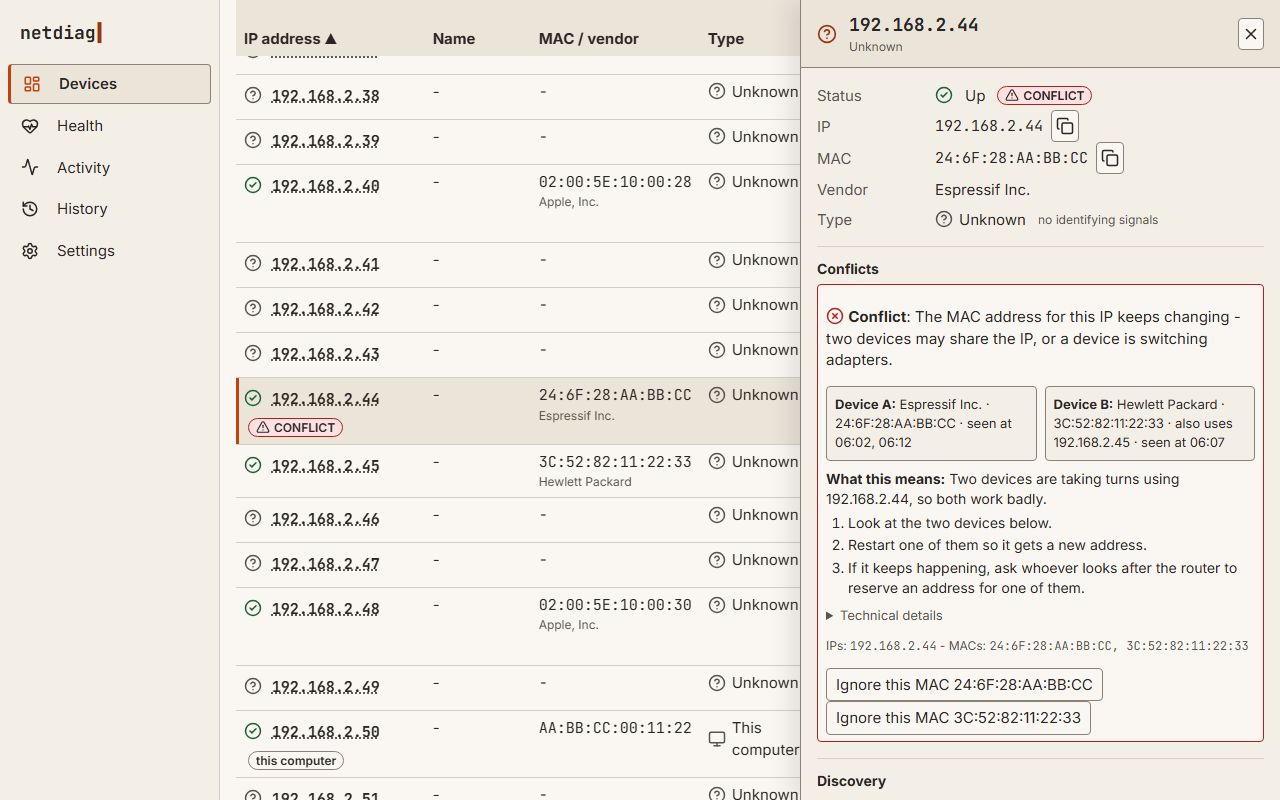
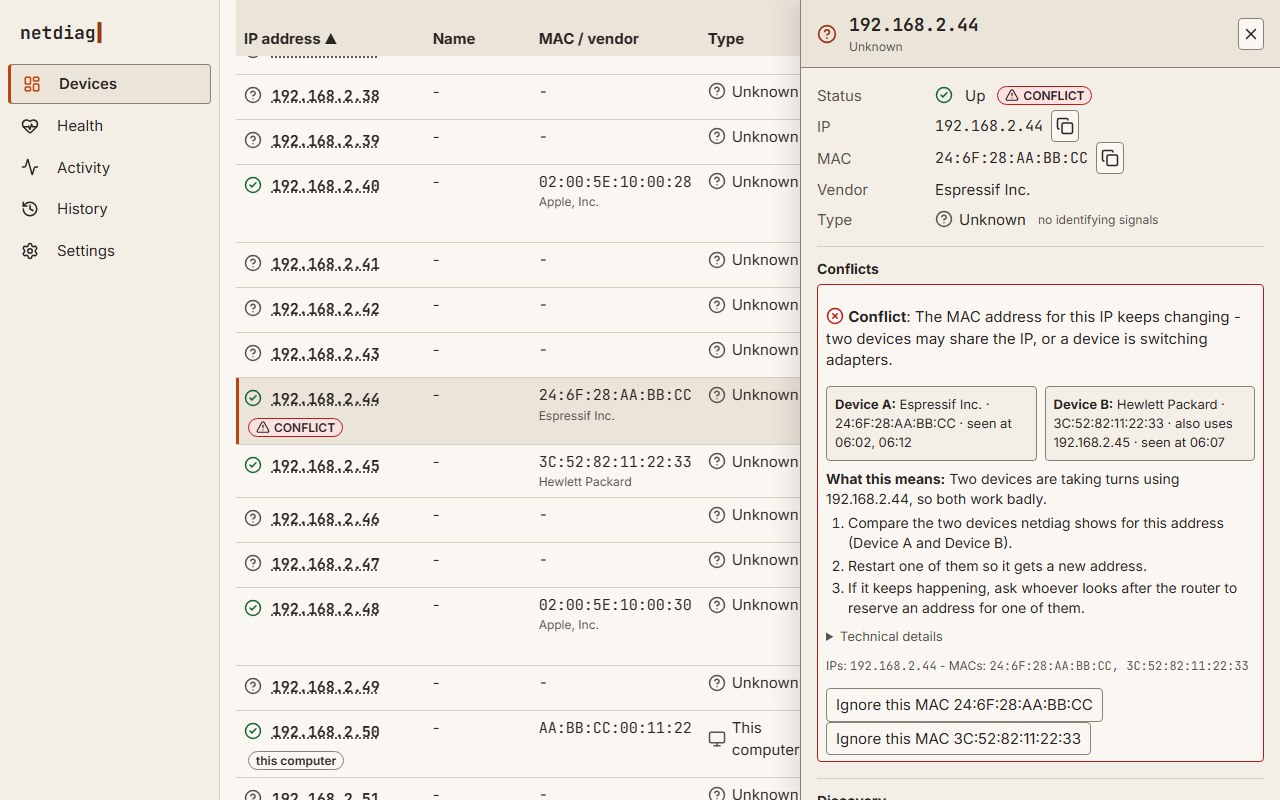
docs-shots: make settings-printer-poll.png; docscheck: every shown shot has a maker
docs-shots.spec now takes settings-printer-poll.png (Settings > Scanning
with the printer status check interval), which nothing made since v0.4,
and drawer-light.png is retaken with the reworded conflict step.

tools/docscheck TestShotsGenerated: every screenshot the README and the
site show is made by docs-shots (docs/img) or site-shots
(docs/assets/shots), or is one of the five test-rig shots that field check
6.1 retakes in one run (the four real-zebra shots and bubbles-resolved).
The uitest README lists them.

Changed region(s): [[0.625, 0.625, 0.9688, 1.0]]

diff --git a/tools/docscheck/docs_test.go b/tools/docscheck/docs_test.go
@@ -2,8 +2,10 @@ package docscheck
 
 import (
 	"os"
+	"path"
 	"path/filepath"
 	"regexp"
+	"slices"
 	"strings"
 	"testing"
 )
@@ -79,6 +81,73 @@ func TestDocsImagesExist(t *testing.T) {
 	}
 	if n < 10 {
 		t.Fatalf("found only %d images; the patterns no longer match the docs", n)
+	}
+}
+
+// rigShots are the screenshots only the test rig can take: the real Zebra
+// ZD621 and a bubbles server. Field check "Cover open, then closed." (6.1)
+// retakes them all in one run.
+var rigShots = []string{"real-zebra-fault", "real-zebra-fault-drawer", "real-zebra-recovered", "real-zebra-activity", "bubbles-resolved"}
+
+// TestShotsGenerated: every screenshot the README and the site show is made
+// by a spec (docs-shots for docs/img, site-shots for docs/assets/shots), or
+// is a test-rig shot that field check 6.1 retakes, so a release never shows
+// a stale shot that nothing refreshes.
+func TestShotsGenerated(t *testing.T) {
+	docsSpec := read(t, "tools/uitest/tests/docs-shots.spec.mjs")
+	siteSpec := read(t, "tools/uitest/tests/site-shots.spec.mjs")
+	saved := map[string]bool{}
+	for _, m := range regexp.MustCompile(`save\(\w+, '([\w-]+)'\)`).FindAllStringSubmatch(docsSpec, -1) {
+		saved[m[1]] = true
+	}
+	// site-shots names a shot 'name', 'name.png' or 'name-' + theme.
+	siteMakes := func(name string) bool {
+		if strings.Contains(siteSpec, "'"+name+"'") || strings.Contains(siteSpec, "'"+name+".png'") {
+			return true
+		}
+		for _, theme := range []string{"-dark", "-light"} {
+			if p, ok := strings.CutSuffix(name, theme); ok && strings.Contains(siteSpec, "'"+p+"-' + theme") {
+				return true
+			}
+		}
+		return false
+	}
+	_, rig, _ := strings.Cut(read(t, "docs/field-checklist.md"), "**Cover open, then closed.**")
+	rig, _, _ = strings.Cut(rig, "\n- [")
+	shown := map[string]bool{}
+	for _, m := range mdImage.FindAllStringSubmatch(read(t, "README.md"), -1) {
+		shown[m[1]] = true
+	}
+	for _, m := range htmlImage.FindAllStringSubmatch(read(t, "docs/index.html"), -1) {
+		shown["docs/"+m[1]] = true
+	}
+	for ref := range shown {
+		dir, file := path.Split(ref)
+		name, ok := strings.CutSuffix(file, ".png")
+		if !ok {
+			continue
+		}
+		switch {
+		case slices.Contains(rigShots, name):
+			if !strings.Contains(rig, file+"`") {
+				t.Errorf("%s is a test-rig shot, but field check 6.1 does not retake it", ref)
+			}
+		case dir == "docs/img/":
+			if !saved[name] {
+				t.Errorf("the README shows %s, which docs-shots.spec.mjs does not make", ref)
+			}
+		case dir == "docs/assets/shots/":
+			if !siteMakes(name) {
+				t.Errorf("%s is shown, but site-shots.spec.mjs does not make it", ref)
+			}
+		default:
+			t.Errorf("%s is neither in docs/img nor in docs/assets/shots", ref)
+		}
+	}
+	for _, name := range rigShots {
+		if !strings.Contains(rig, name+".png`") {
+			t.Errorf("field check 6.1 does not take %s.png", name)
+		}
 	}
 }
 

diff --git a/tools/uitest/README.md b/tools/uitest/README.md
@@ -38,14 +38,17 @@ Both screenshot specs run with the full suite, so every `npx playwright test` re
 1. README (`docs/img/`): `npx playwright test tests/docs-shots.spec.mjs`. It renders a 1280x800 viewport
    at CSS scale 1 with reduced motion emulated, so the PNGs stay under 250 KB each, writes them to
    `out/docs/` and copies them into `docs/img/`: `devices-dark.png` (with the Problems right now card),
-   `drawer-light.png` (the conflict view), `settings-mcp.png`, `settings-chat.png` and `chat-wizard.png`.
+   `drawer-light.png` (the conflict view), `settings-mcp.png`, `settings-printer-poll.png`,
+   `settings-chat.png` and `chat-wizard.png`.
 2. Site (`docs/assets/shots/`): `npx playwright test tests/site-shots.spec.mjs`, at 2x, written straight
    to `docs/assets/shots/`.
 3. Look at a few of them (both themes) before committing, and check `git status` lists only the shots you expected.
 
-The real Zebra shots (`real-zebra-*.png`) and the bubbles resolved-card shot (`bubbles-resolved.png`)
-need the printer and a bubbles server; `docs/field-checklist.md` section 6.1 says how to take them.
-`go test ./tools/docscheck` checks that every screenshot the README and the site show exists.
+The real Zebra shots (`real-zebra-fault.png`, `real-zebra-fault-drawer.png`, `real-zebra-recovered.png`
+and `real-zebra-activity.png`) and the bubbles resolved-card shot (`bubbles-resolved.png`) need the printer
+and a bubbles server; `docs/field-checklist.md` check 6.1 ("Cover open, then closed") takes all five in one
+run. `go test ./tools/docscheck` checks that every screenshot the README and the site show exists, and
+that a spec above or check 6.1 makes it.
 
 ## How it works
 
